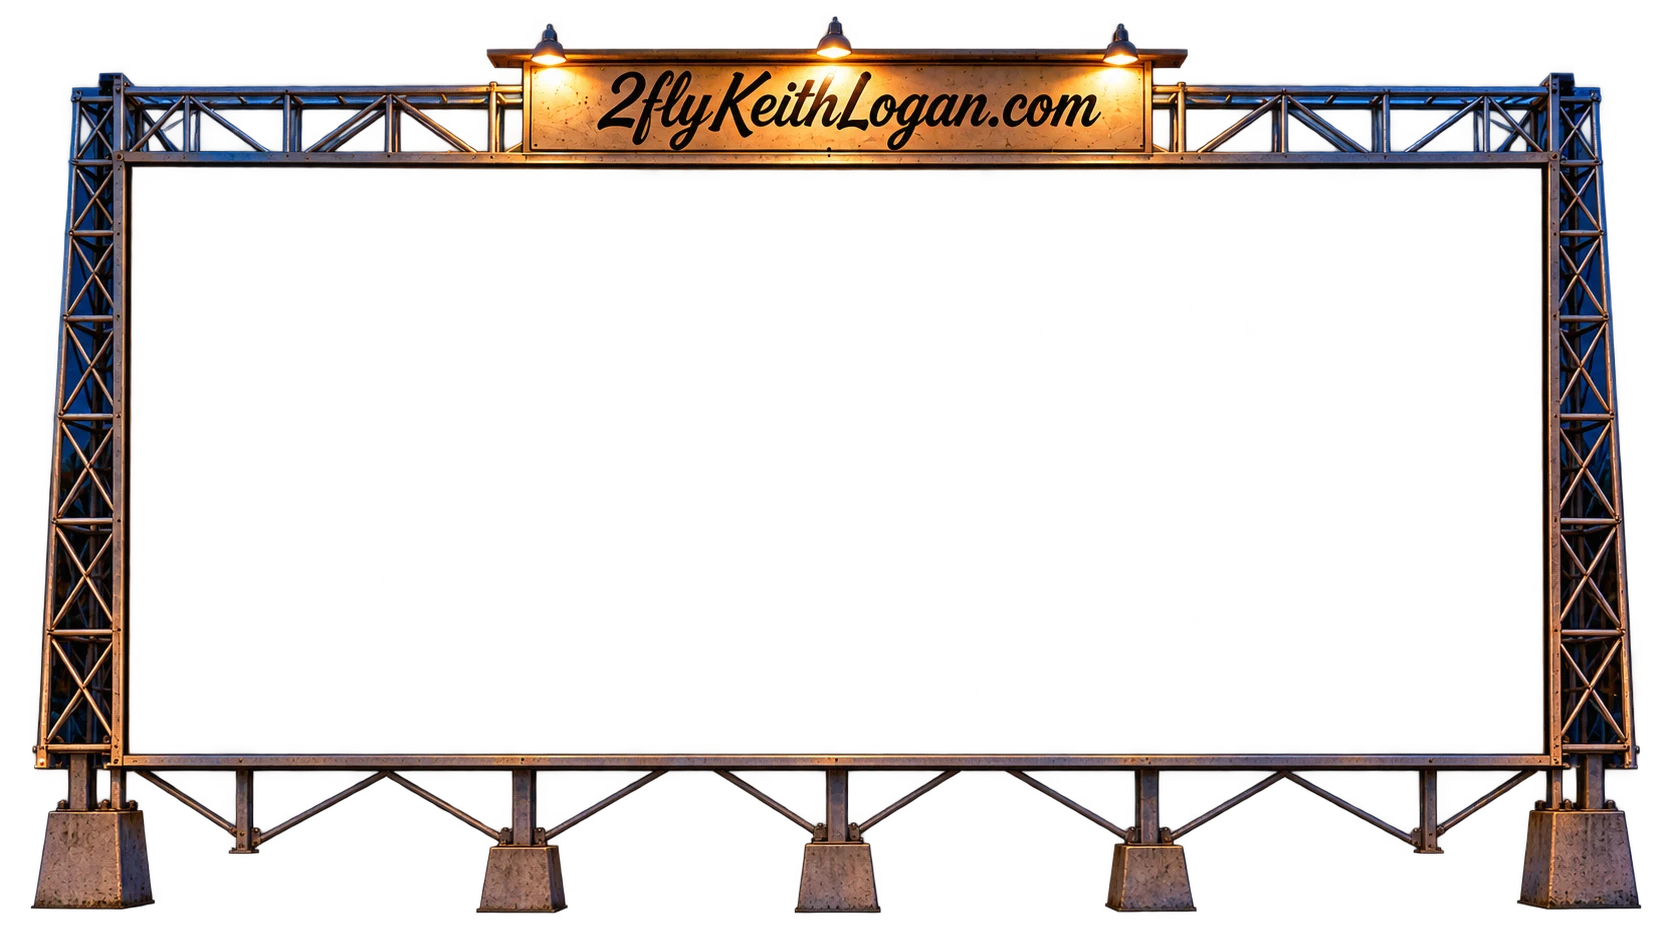
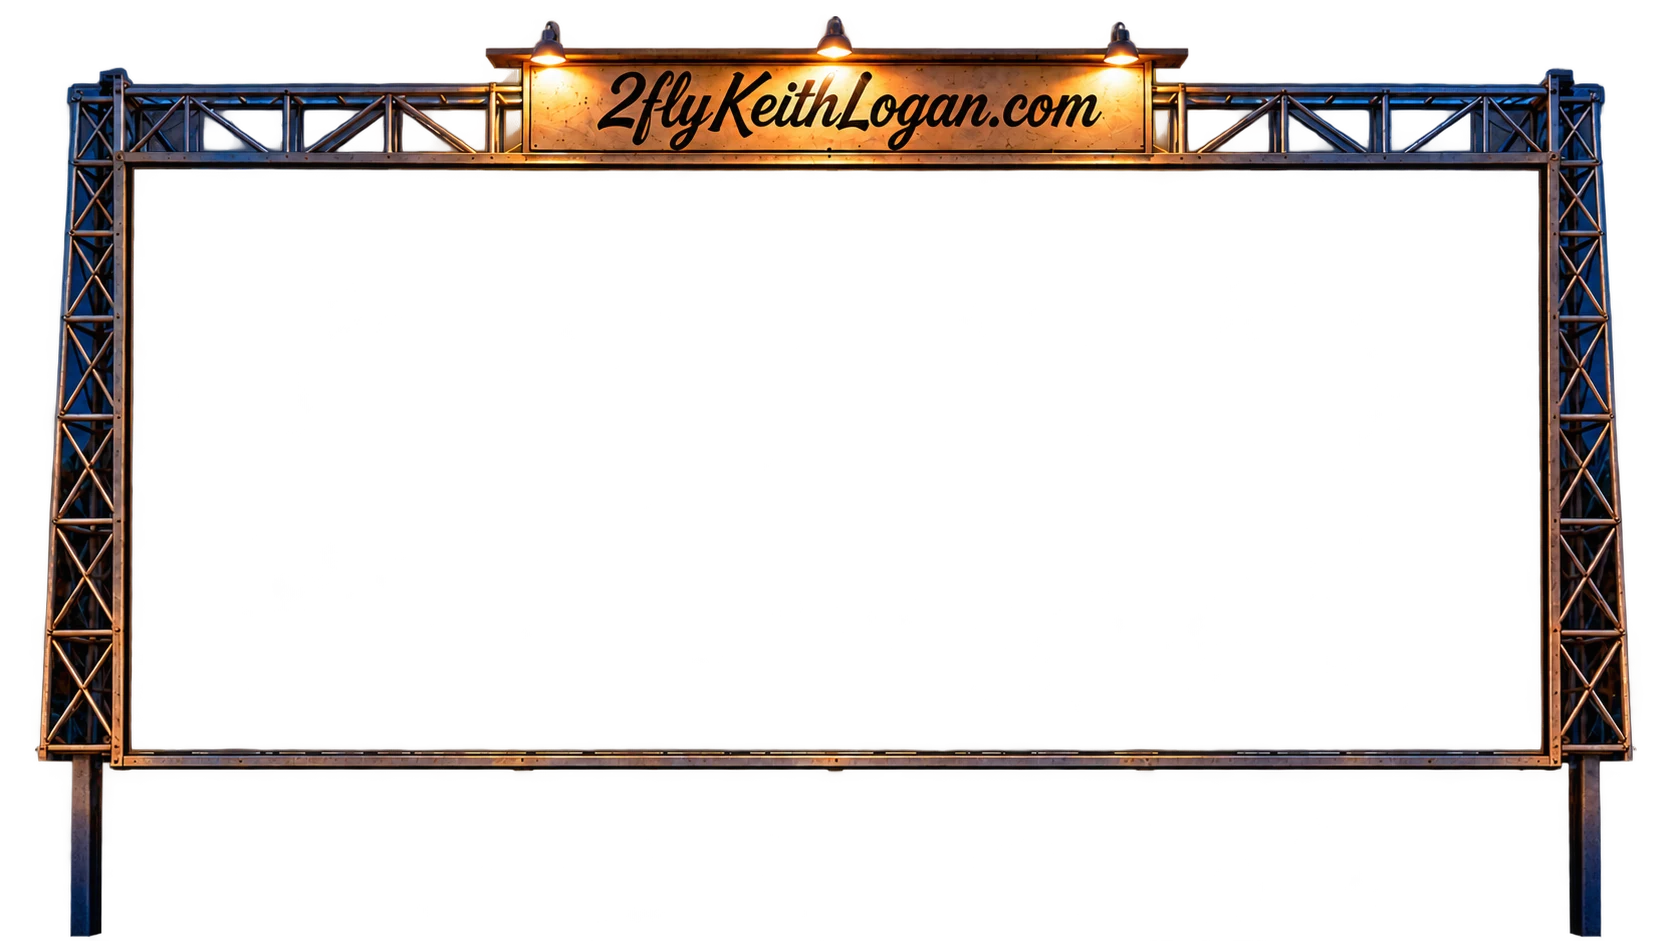
Remove floating screen footings and blend side supports into depth

Changed region(s): [[0.0, 0.0308, 0.9958, 1.0]]

diff --git a/css/drive-in.css b/css/drive-in.css
@@ -8,3 +8,6 @@
 /* Keep initial feature artwork uncluttered; playback controls appear with the film. */
 .drive-in:not(.has-started) .film-controls{display:none}.station-title{position:absolute;width:1px;height:1px;overflow:hidden;clip-path:inset(50%)}.playing.idle .movie:has(:focus-visible) .film-controls{opacity:1;pointer-events:auto}.playing.idle .movie:focus-within:not(:has(:focus-visible)) .film-controls{opacity:0;pointer-events:none}
 @media(max-width:700px){.welcome{padding-bottom:5px}.program.open{margin-top:25px}.radio-buttons button{min-height:32px}.control-row button{min-height:44px}}
+/* Foundations sit beyond the parked row. Fade only the lower side posts into
+   that depth plane; the screen border and all upper steel remain fully opaque. */
+.structure{-webkit-mask-image:linear-gradient(to bottom,#000 0%,#000 82%,transparent 94%);mask-image:linear-gradient(to bottom,#000 0%,#000 82%,transparent 94%)}
